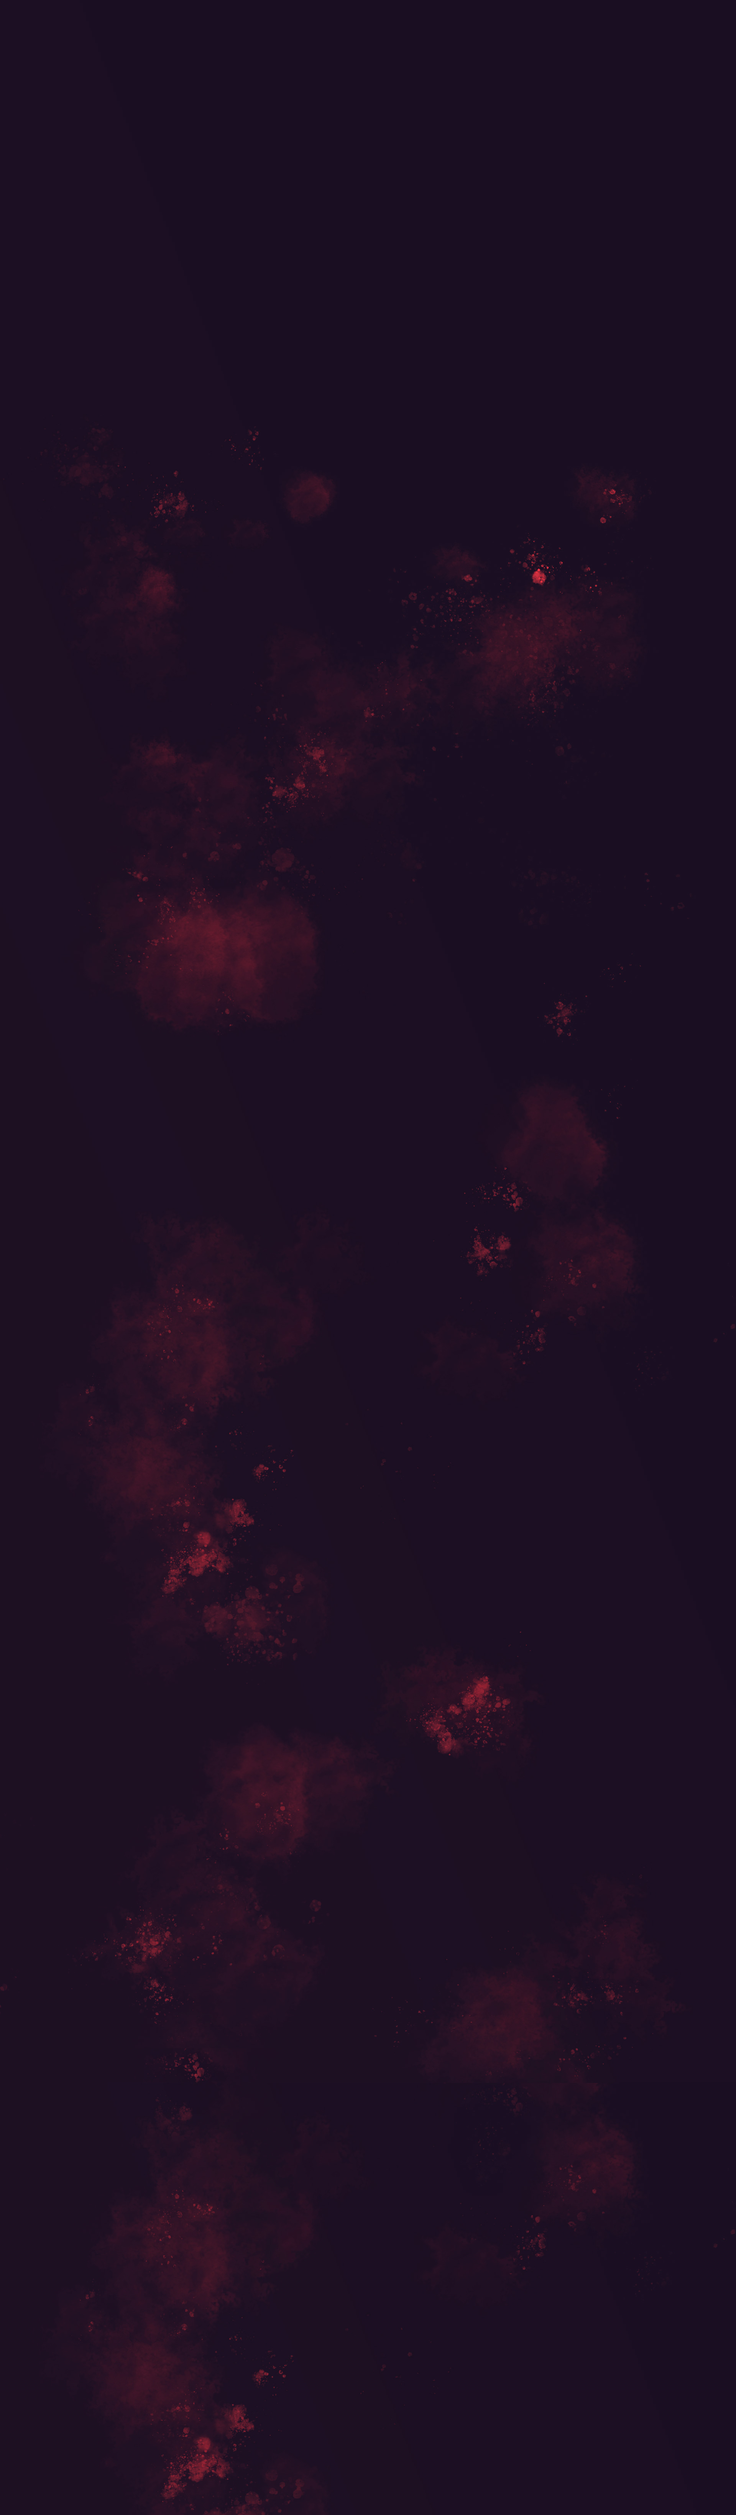
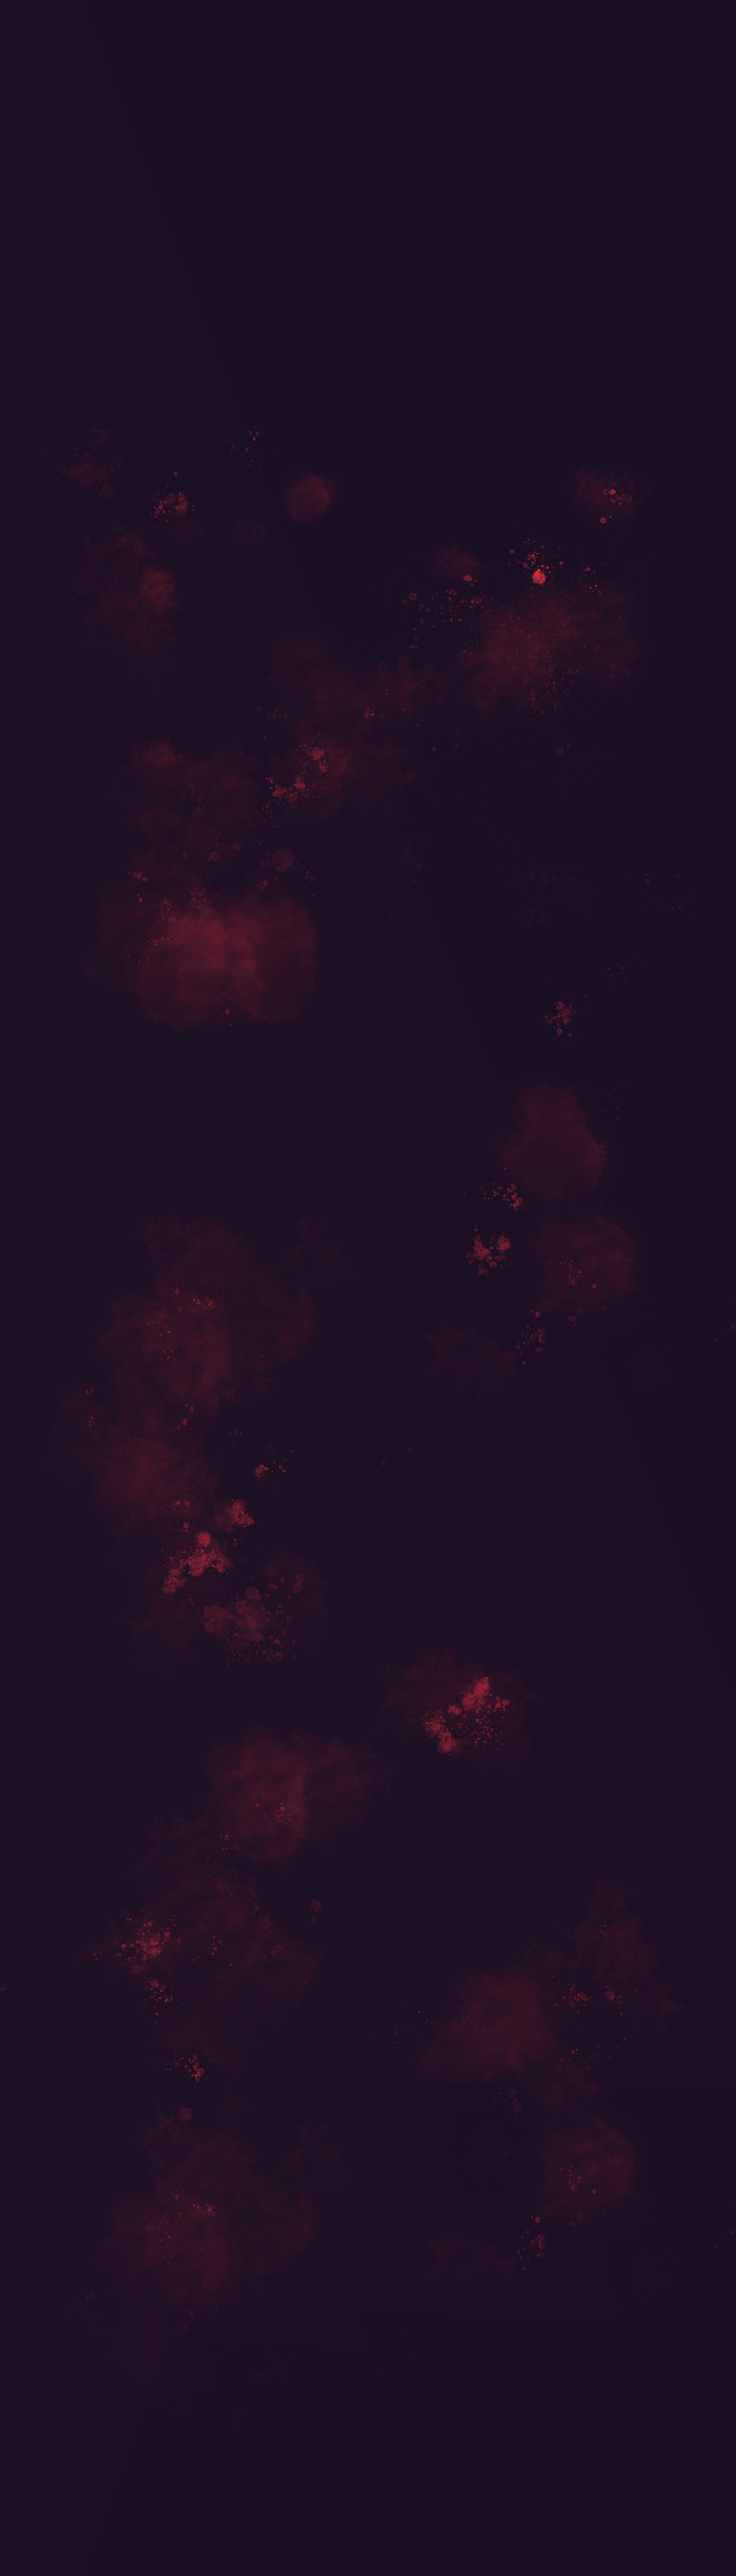
event img

diff --git a/src/routes/eventsData.js b/src/routes/eventsData.js
@@ -3,14 +3,170 @@ export const eventsData = [
         title: "TECHNICAL EVENTS",
         id: "technical_events",
         subtitle: "DREAM IT. MAKE IT.",
-        description: "Vibe to the concerts of some of India's finest musicians, comedians, and DJs! Get ready to groove and make memories that'll last a lifetime. Not only will you breathe fun-filled flavours of air, and meet new people; but you'll also become a part of an ever-blossoming community of IIIT Bhubaneswar. So, buckle up and grab your squad and let the good vibes roll, adding an extra perfection to the hymn of your steps.",
+        description: "Ready to unravel the tech giant within you? We have the best in store for you. Starting from hackathons to fun contests to tech talks, let's discover your innovative side! Think you are the best? Well you can make a statement here!!!",
         events: [
             {
                 date: "2ND FEB",
-                time: "10:30 PM",
+                time: "10:00 AM",
                 description: "If you have watched transformers then you are definitely going to love this one. Robo Wars is a thrilling event in which robots built by competitors fight against each other in controlled arenas. Robots are usually armed and the goal is to disable or destroy the opponents’ robots. Be a part of this unique event and witness yourself as the robots battle it out to survive and become the best.",
-                image: "/event-images/event.jpg"
-            }
+                image: "/event-images/robo-wars.webp"
+            },
+            {
+                date: "2ND FEB",
+                time: "10:00 AM",
+                description: "Who doesn't love car races- a tournaments where the drivers showcase their skills and their cars as they race against each other through multiple obstacles and difficult tracks. Sounds amazing doesn't it? Well, you can be a part of it too. We bring to you the \"Dirt Rush\" a form of Remote-Controlled car racing that takes place on dirt tracks where you have to navigate through obstacles such as jumps, berms, and whoops in the least time possible.",
+                image: "/event-images/robo-wars.webp"
+            },
+            {
+                date: "2ND FEB",
+                time: "10:00 AM",
+                description: "You must be thinking \"Well here's another one of those robo events\", don't be so quick to judge this one is entirely different.Remember the childhood games when we had to follow some lines and patterns while walking.This event helps you relive that very moment of your childhood with a small twist: This time it's not you but your robot \"the line follower robot\" who has to follow the line. The line follower robot is an autonomous mobile machine that can detect and follow a black line or a strip made on the floor within a specified margin of error. The robots compete against time and the one finishing in the least time wins.",
+                image: "/event-images/robo-wars.webp"
+            },
+            {
+                date: "2ND FEB",
+                time: "10:00 AM",
+                description: "Robots are taking over a lot of our departments. We can sit and relax as they do our work. Signs of concern perhaps, but not in this case. \"Robo race\" is an event where not only your robot but also you have to do the work. The participants have to design a robot either wired or wireless within specified dimensions that operates manually and can traverse through all turns of the track. They race against time and other competitors in an attempt to emerge as the ultimate robo racer.",
+                image: "/event-images/robo-wars.webp"
+            },
+            {
+                date: "2ND FEB",
+                time: "10:00 AM",
+                description: "We live in an era where things are replaced by their virtual counterparts, meets have been replaced by virtual meets, letters by WhatsApp texts and so on. We decided to use this flavour and implement it in sports too and this is what lead to \"FPV racing\". FPV, also called first person view drones, are aerial vehicles fitted with cameras that live stream the video to the operator’s headset. The participants have to control these drones as race through a course and compete against each other to determine the best.",
+                image: "/event-images/robo-wars.webp"
+            },
+            {
+                date: "2ND FEB",
+                time: "10:00 AM",
+                description: "The world around us is evolving rapidly and its best for us to evolve as well. With new tools and technologies surfacing every now and then, it’s a must for any person to know about them. Sounds quite daunting, doesn't it? Well, you won't be alone on this journey. We bring to you, something very different from your daily classroom lectures, a two hour long hands on workshop on the new technologies by tech experts where you can learn: - - open source - cracking best internships - grab more opportunities - insights on college life and further",
+                image: "/event-images/robo-wars.webp"
+            },
+            {
+                date: "2ND FEB",
+                time: "10:00 AM",
+                description: "Ever went on hunting? Nope it’s not a normal hunt, here you need to hunt down the hackers instead of the animals! This thrilling event is a proper red teaming event where the participants will emulate real life black hat hackers and understand their tactics and techniques.",
+                image: "/event-images/robo-wars.webp"
+            },
+            {
+                date: "2ND FEB",
+                time: "10:00 AM",
+                description: "Remember the golden old days of science exhibition in school? Well, we’re bringing back that nostalgia through this event! This amazing event is going to be a day long exhibition of the most interesting and useful projects contributed by the students and community.",
+                image: "/event-images/robo-wars.webp"
+            },
+            {
+                date: "2ND FEB",
+                time: "10:00 AM",
+                description: "Can you imagine a Tech-fest without a Hackathon? Obviously not. So, here we bring in our hackathon which is going to be the flagship tech event of Advaita- Hackfest 23, a software and hardware hackathon which is open to all. Hackfest-Advaita will begin with its first round of idea submission from 23rd to 27th Jan on the platform of Devpost. The second round will be held offline at the IIIT-BH campus on 16th and 17th of Feb.",
+                image: "/event-images/robo-wars.webp"
+            },
+            {
+                date: "2ND FEB",
+                time: "10:00 AM",
+                description: "This is a cyber security event where the participants will have to compromise servers, PCs, firewalls and some other networking device to get access to sensitive information, data and exfiltrating to some other locations.",
+                image: "/event-images/robo-wars.webp"
+            },
+            {
+                date: "2ND FEB",
+                time: "10:00 AM",
+                description: "Guidance is the biggest weapon that helps us fight our way through success. How amazing does it feel when experienced Tech leads guide us? Well, this is obviously going to be an insightful seminar or talk related to new technologies by a popular speaker or community person. This is going to be a promising and engaging session for all the tech enthusiasts. So, come on and gain new insights and perspectives on the future of technology by the famous speaker.",
+                image: "/event-images/robo-wars.webp"
+            },
+            {
+                date: "2ND FEB",
+                time: "10:00 AM",
+                description: "Ever made a team and worked individually? Well, this event will test your code as well as team compatibility. It is a coding contest with a single coding round for teams made of two. ICPC format of contest will be followed with some different rules. Both the team members will solve the same question but not together, they will solve the question individually and after a time limit, they will switch their positions and continue till the time reaches for that particular question. So, work on the live problem in a disjointed team of two and switch your positions after half the total time.",
+                image: "/event-images/robo-wars.webp"
+            },
+            {
+                date: "2ND FEB",
+                time: "10:00 AM",
+                description: "Coding is great but penalties are not and moreover when it’s bitter or worse. Couldn’t understand? Well, this fun event will test your skills through guts! It is an interesting fun coding competition which is formatted into two rounds. The first online round will select the top 50 coders who will compete in different groups. Each group will get a single question and failing to complete it within the given decreasing time limit will result in a penalty. The penalty will be in the form of a not-so-good drink. So, code your way out within time to escape the penalty of a dreadful drink.",
+                image: "/event-images/robo-wars.webp"
+            },
         ]
-    }
+    },
+    {
+        title: "CULTURAL EVENTS",
+        id: "cultural_events",
+        subtitle: "VIBE YOUR SOUL AWAY",
+        description: "Hey singers and dancers! Here's your chance to enchant the whole arena with your charming voice or set the stage on fire with your dazzling dance steps as you participate and compete with the best.",
+        events: [
+            {
+                date: "2ND FEB",
+                time: "10:00 AM",
+                description: "",
+                image: "/event-images/robo-wars.webp"
+            },
+        ]
+    },
+    {
+        title: "FILM AND THEATRE LITFEST",
+        id: "litfest_events",
+        subtitle: "FEEL TO EXPRESS",
+        description: "Haven't had enough chances to show off your acting skills? Scared that people might judge you? Don't have enough confidence? Don't worry we will set the stage for you but the main question is ARE YOU READY to bring out the \"kalakar\" ?",
+        events: [
+            {
+                date: "2ND FEB",
+                time: "10:00 AM",
+                description: "",
+                image: "/event-images/robo-wars.webp"
+            },
+        ]
+    },
+    {
+        title: "ART",
+        id: "art_events",
+        subtitle: "DRAWING THE DESIRE",
+        description: "Artist? Not an artist? Well it doesn't really matter. They say art lies all around us . Well we don't deny and nor would you after being a part of the plethora of amazing events we bring to you.",
+        events: [
+            {
+                date: "2ND FEB",
+                time: "10:00 AM",
+                description: "",
+                image: "/event-images/robo-wars.webp"
+            },
+        ]
+    },
+    {
+        title: "E-SPORTS",
+        id: "esports_events",
+        subtitle: "STEP YOUR GAME UP",
+        description: "Hola gamers!!! How can we start the party without ya all. We are officially sending the invitation to you for the ultimate battle  let's see if you have what it takes to win it. May the best say Gg.",
+        events: [
+            {
+                date: "2ND FEB",
+                time: "10:00 AM",
+                description: "",
+                image: "/event-images/robo-wars.webp"
+            },
+        ]
+    },
+    {
+        title: "FOOD",
+        id: "food_events",
+        subtitle: "SAVOR THE TASTE",
+        description: "Any foodies here? Well we do hope so coz we have a lot amazing flavours in our hands where you not only get to cook exotic delicacies but also get to flaunt your eating skills.",
+        events: [
+            {
+                date: "2ND FEB",
+                time: "10:00 AM",
+                description: "",
+                image: "/event-images/robo-wars.webp"
+            },
+        ]
+    },
+    {
+        title: "SOCIAL CONNECT",
+        id: "social_connect",
+        subtitle: "HELP FOR HOPE",
+        description: "Connect, build relationships, and foster a sense of belongingness in a supportive and engaging atmosphere. Make new friends, find a support network, have some fun, help support important causes and make a positive impact in the community.",
+        events: [
+            {
+                date: "2ND FEB",
+                time: "10:00 AM",
+                description: "",
+                image: "/event-images/robo-wars.webp"
+            },
+        ]
+    },
 ];

diff --git a/src/routes/events.module.css b/src/routes/events.module.css
@@ -63,6 +63,17 @@ body {
     }
 }
 
+
+.sliderCardOverlay {
+    background: linear-gradient(180deg, rgba(34, 22, 46, 0) 0%, rgba(34, 22, 46, 1) 100%);
+    content: " ";
+    width: 500px;
+    height: 150px;
+    bottom: 0;
+    display: block;
+    position: absolute;
+}
+
 .sliderTextLine {
     display: inline-block;
     width: 0;
@@ -113,7 +124,7 @@ body {
 }
 
 .proCard:hover .proCardOverlay {
-    transform: translateY(-150px);
+    transform: translateY(50px);
 }
 
 .proCard .sliderTextLine {
@@ -183,7 +194,13 @@ body {
     line-height: 1.5rem;
 }
 
+
 @media (max-width: 1050px) {
+    .sliderCardOverlay {
+        max-width: 600px;
+        width: 100vw;
+    }
+
     .proCardsWrap {
         justify-content: center;
         gap: 1.5rem;

diff --git a/src/routes/events.js b/src/routes/events.js
@@ -9,8 +9,8 @@ function proNightsCard(img, title, subtitle, desc) {
     return (
         <div className={classesHome.sliderCard + " " + classes.proCard}>
             <img src={img} alt="slider" />
-            <div className={classesHome.sliderCardOverlay} />
-            <div className={classesHome.sliderCardOverlay + " " + classes.proCardOverlay} />
+            <div className={classes.sliderCardOverlay} />
+            <div className={classes.sliderCardOverlay + " " + classes.sliderCardOverlay2 + " " + classes.proCardOverlay} />
             <div className={classes.sliderCardText}>
                 <div>{subtitle}</div>
                 <div><span className={classes.sliderTextLine} />{title}</div>

diff --git a/src/index.css b/src/index.css
@@ -11,7 +11,7 @@ body {
     color: white;
     display: block;
     background-image: url(./assets/bg.jpg);
-    background-repeat: no-repeat;
+    background-repeat: repeat-y;
     background-position: center 0;
     background-size: cover;
 }
